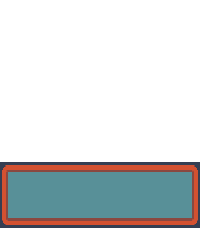
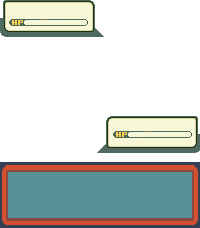
update background and level

Changed region(s): [[0.48, 0.4912, 1.0, 0.6754], [0.0, 0.0, 0.51, 0.1842]]

diff --git a/src/c/pokebattlecolor.c b/src/c/pokebattlecolor.c
@@ -147,8 +147,8 @@ static void load_e_sequence() {
 
 void update_level_text()
 {
-  snprintf(level_string, sizeof(level_string), " %d", level_int);
-  snprintf(level_string_2, sizeof(level_string_2), " %d", level_int_2);
+  snprintf(level_string, sizeof(level_string), "Lv %d", level_int);
+  snprintf(level_string_2, sizeof(level_string_2), "Lv %d", level_int_2);
 	text_layer_set_text(text_level_enemy_layer, level_string_2);  
   text_layer_set_text(text_level_ally_layer, level_string);
 }
